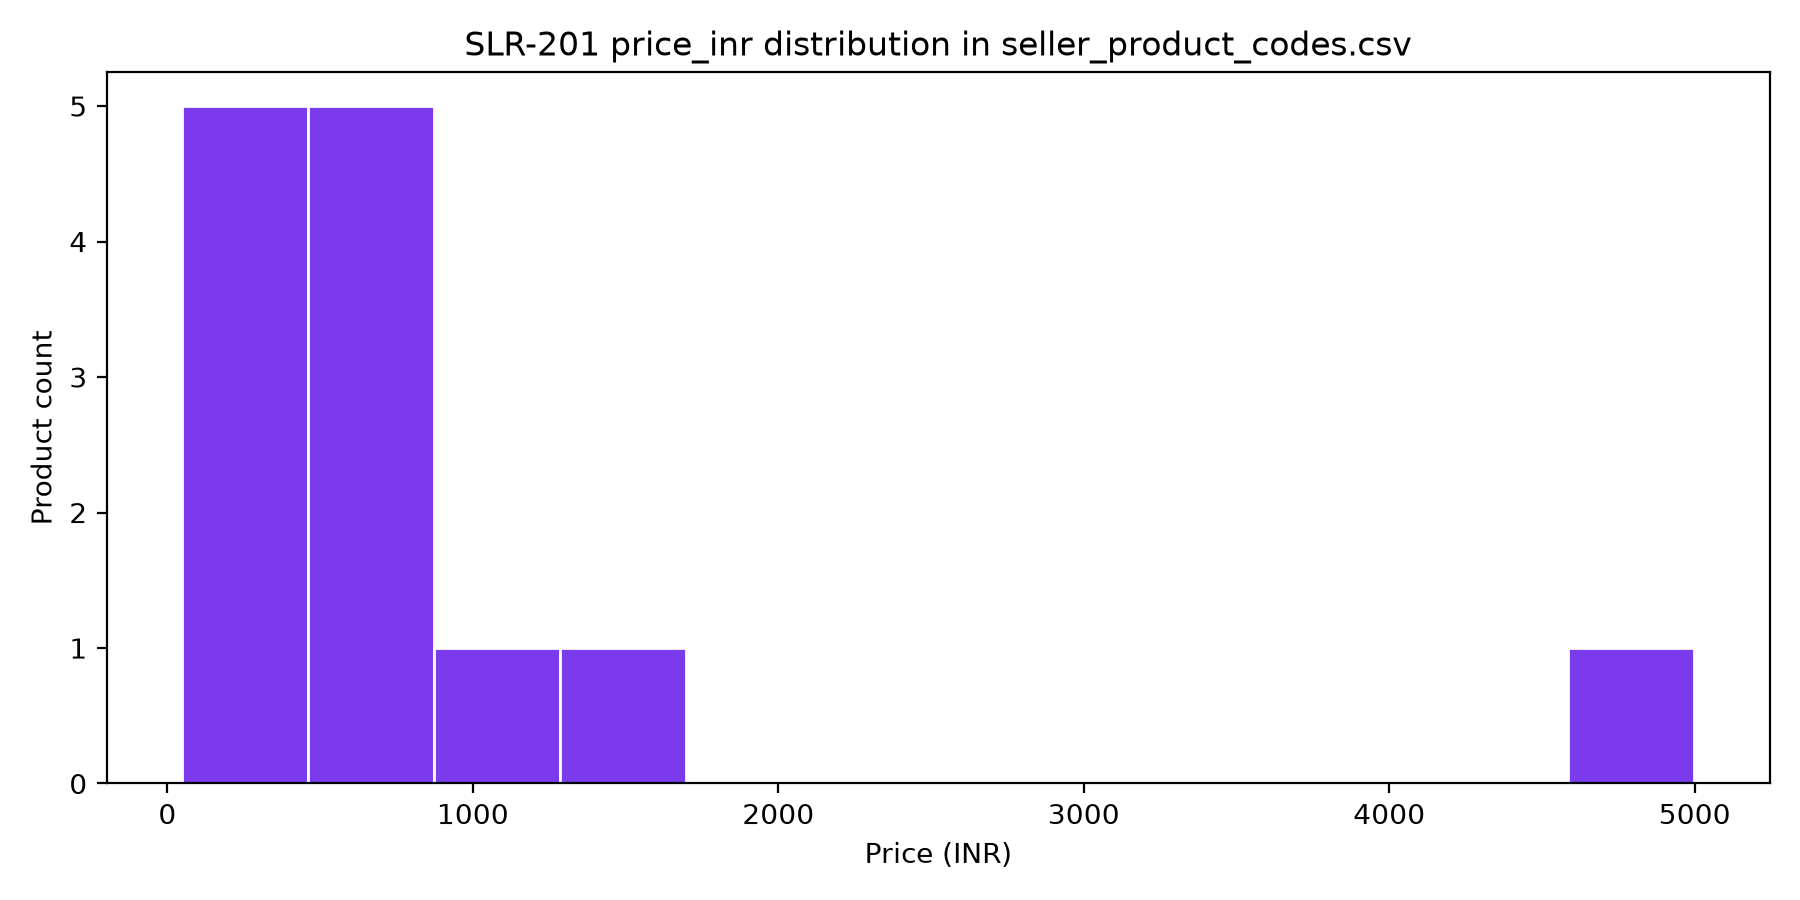
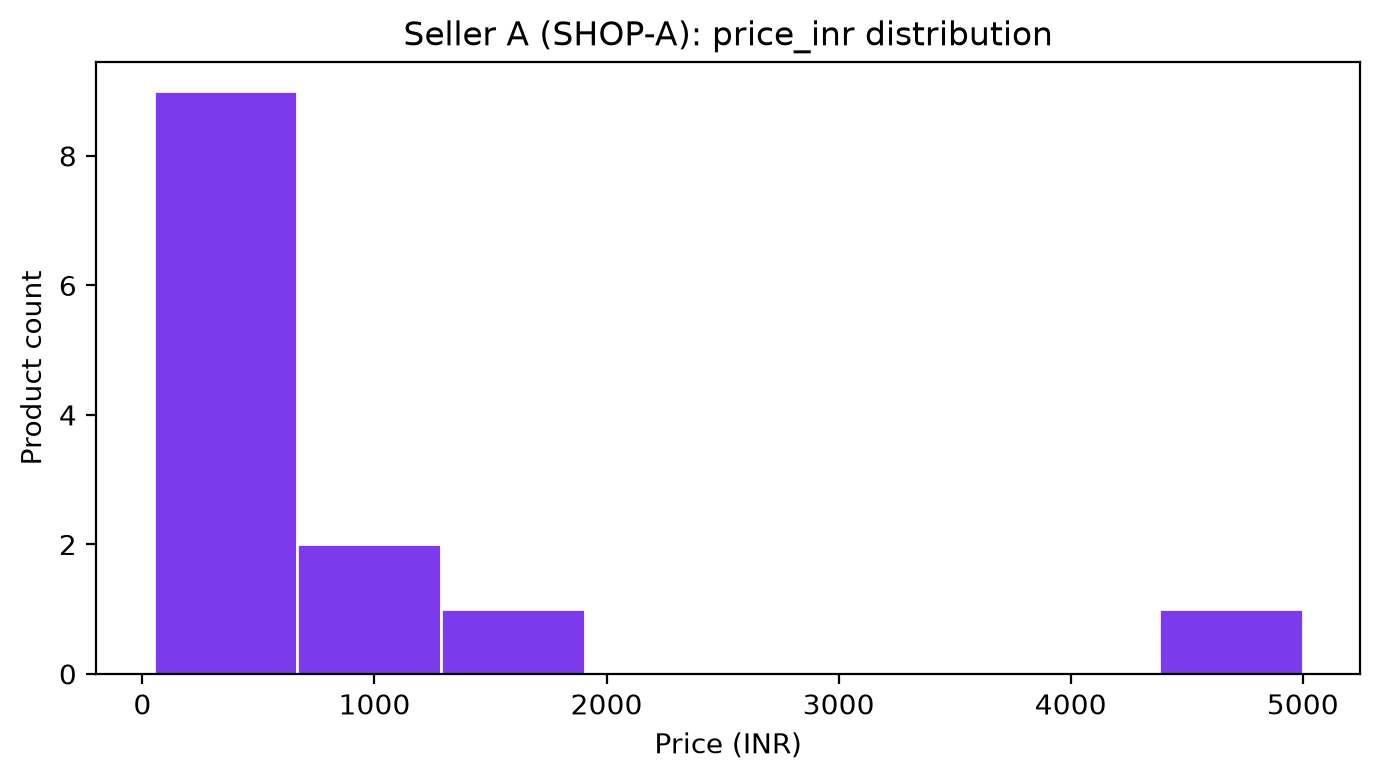
Regenerate Files session charts without SLR jargon on axes.
Shop codes SHOP-A–L in CSV; new PNGs 01_rows_by_shop_code and 06_seller_a_class_timeline; chart titles say Seller A (SHOP-A).

diff --git a/IITP-AIDA-EN-III-2610/module-01-masterclass/lecture-01-python-files-and-data-handling/lecture-script.md b/IITP-AIDA-EN-III-2610/module-01-masterclass/lecture-01-python-files-and-data-handling/lecture-script.md
@@ -138,7 +138,7 @@ print(len(rows) - 1, rows[1][2], rows[1][4])
 
 > <font color='green'>**Result**</font> The table has 120 product rows plus a header, matching the old `catalog_blob` size.
 
-<p align="center"><img src="images/01_rows_by_seller.png" alt="Bar chart of row counts for each seller id in seller_product_codes.csv" width="900"></p>
+<p align="center"><img src="images/01_rows_by_shop_code.png" alt="Bar chart of row counts per shop code SHOP-A through SHOP-L in seller_product_codes.csv" width="900"></p>
 
 ### <font color='green'>Extending it: keep only Seller A rows</font>
 
@@ -539,7 +539,7 @@ Seller A export rows: 13
 
 - **Lines 2 to 4** Topic 2's export is re-read to confirm the upload file row count.
 
-<p align="center"><img src="images/06_upload_prep_timeline.png" alt="Line chart of minutes elapsed across upload prep milestones in class" width="900"></p>
+<p align="center"><img src="images/06_seller_a_class_timeline.png" alt="Line chart of minutes elapsed for Seller A upload prep milestones in class" width="900"></p>
 
 ### <font color='green'>Outcome</font>
 
